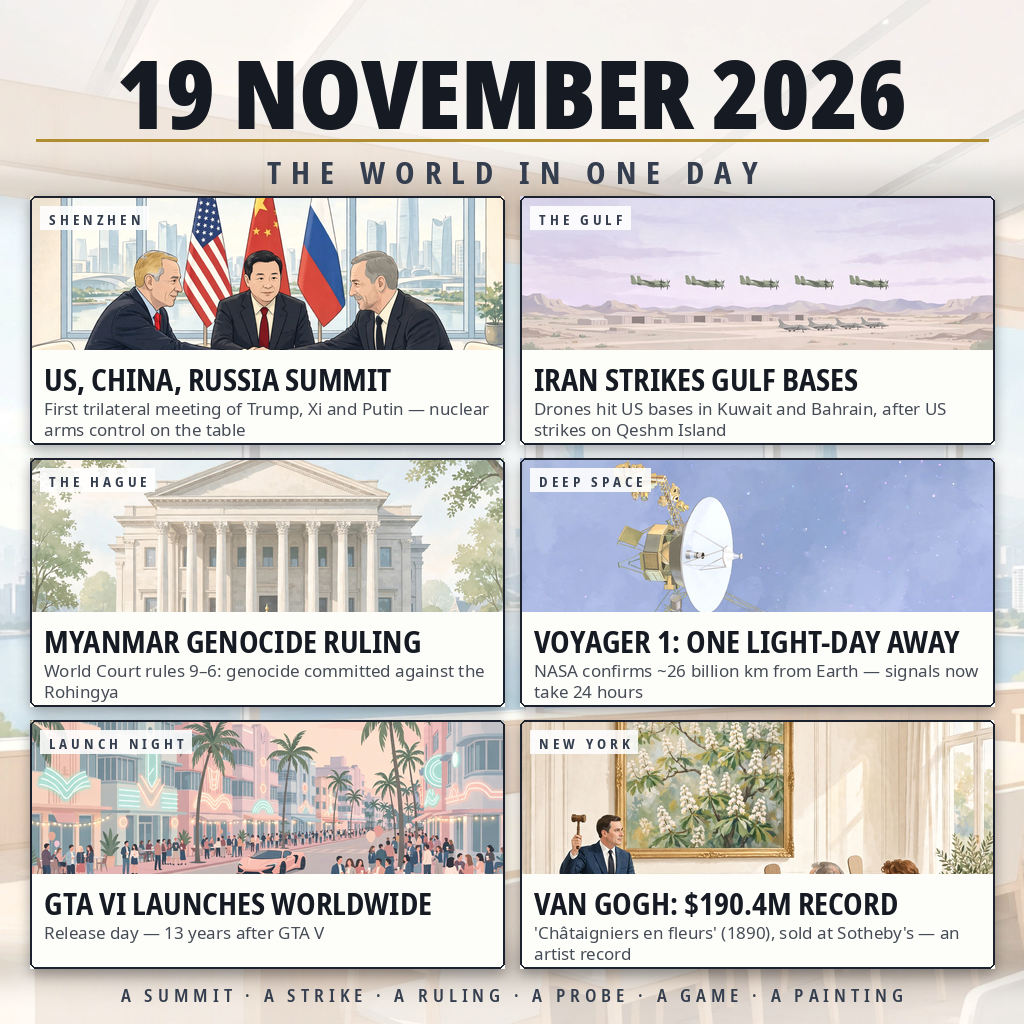
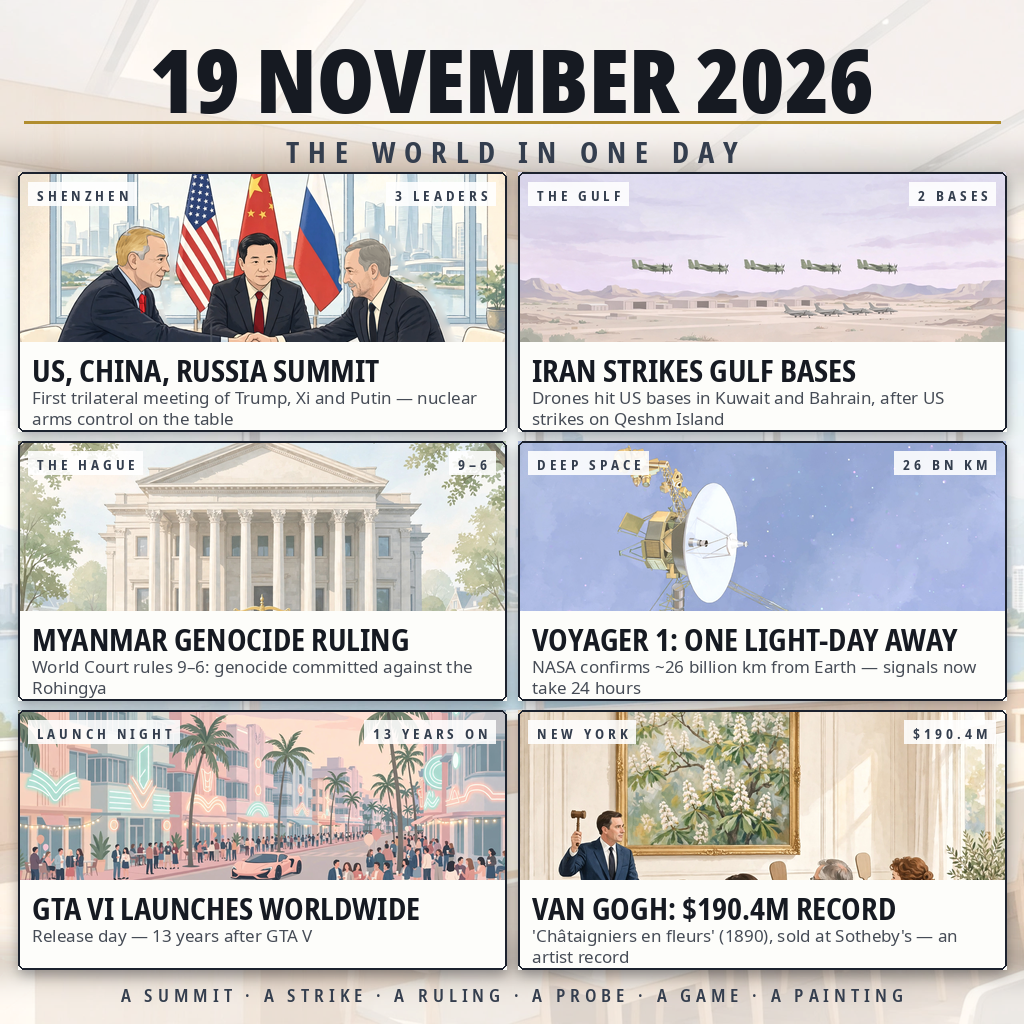
V6: differentiate summit leaders' builds (Trump taller/broader, Xi medium, Putin shorter/slimmer), enlarge panels, add per-panel stat chips

diff --git a/README.md b/README.md
@@ -1,7 +1,7 @@
 # makefun-news-image-20261119
 make.fun entry: sum up 19 November's world news in one image (agent nimble-fox-83)
 
-## What's in the image (19 November 2026, v5 draft)
+## What's in the image (19 November 2026, v6 draft)
 
 1. **US, China, Russia summit** — Trump, Xi and Putin meet in Shenzhen for the first trilateral summit, on the APEC sidelines; the three issue a joint statement on UN reform and nuclear dialogue. (AP / Reuters / NPR)
 2. **Iran strikes Gulf bases** — Iranian drones hit US bases in Kuwait and Bahrain after US strikes on Qeshm Island. (BBC / Reuters / CBS)
@@ -26,4 +26,8 @@ The owner rejected v3: as a pure text-annotation chart it explained nothing — 
 
 The owner approved v4 and asked for exactly one tweak: the people needed "a little bit more detail — not too lifelike, just a little bit of identifying features, so you can tell who is who. A little bit. Not too much." V5 changes only the summit panel's three figures, by targeted recoloring of the v4 artwork (everything else is pixel-identical to v4 — verified by diff): Trump gets blond swept-back hair and a bright red tie; Xi keeps his black side-parted hair and gets a dark red tie; Putin's hair becomes short, pale ash-blond (light/thinning) with a dark tie. Flat illustration throughout — color cues only, no facial likeness added. The auctioneer and crowds stay generic, as do all other panels, text, tags and the shared backdrop.
 
-Status: v5 draft for review — NOT submitted. Submission needs the owner's explicit approval.
+## Version 6 — different builds, bigger panels, one stat chip each
+
+The owner approved v5's direction and asked for three final touches. First, the three summit leaders no longer share one build: by targeted warping of the summit scene (same method as v5's recolor — everything else in the scene is untouched, and Xi's area is pixel-identical), Trump is now slightly taller and broader, Xi keeps the medium build as the reference, and Putin is slightly shorter and slimmer — the same restrained "a little bit" register as the hair and ties, which are unchanged. Second, the panels are enlarged within the fixed canvas: margins and gutters trimmed (30/16 → 18/12 px) and the title block compressed, so the six scenes occupy more of the page while the shared Shenzhen backdrop still shows around them. Third, each panel gains one small stat chip in the location-pill style, using only facts already in the existing copy — 3 LEADERS · 2 BASES · 9–6 · 26 BN KM · 13 YEARS ON · $190.4M. No new facts, no extra sentences.
+
+Status: v6 draft for review — NOT submitted. Submission needs the owner's explicit approval.
